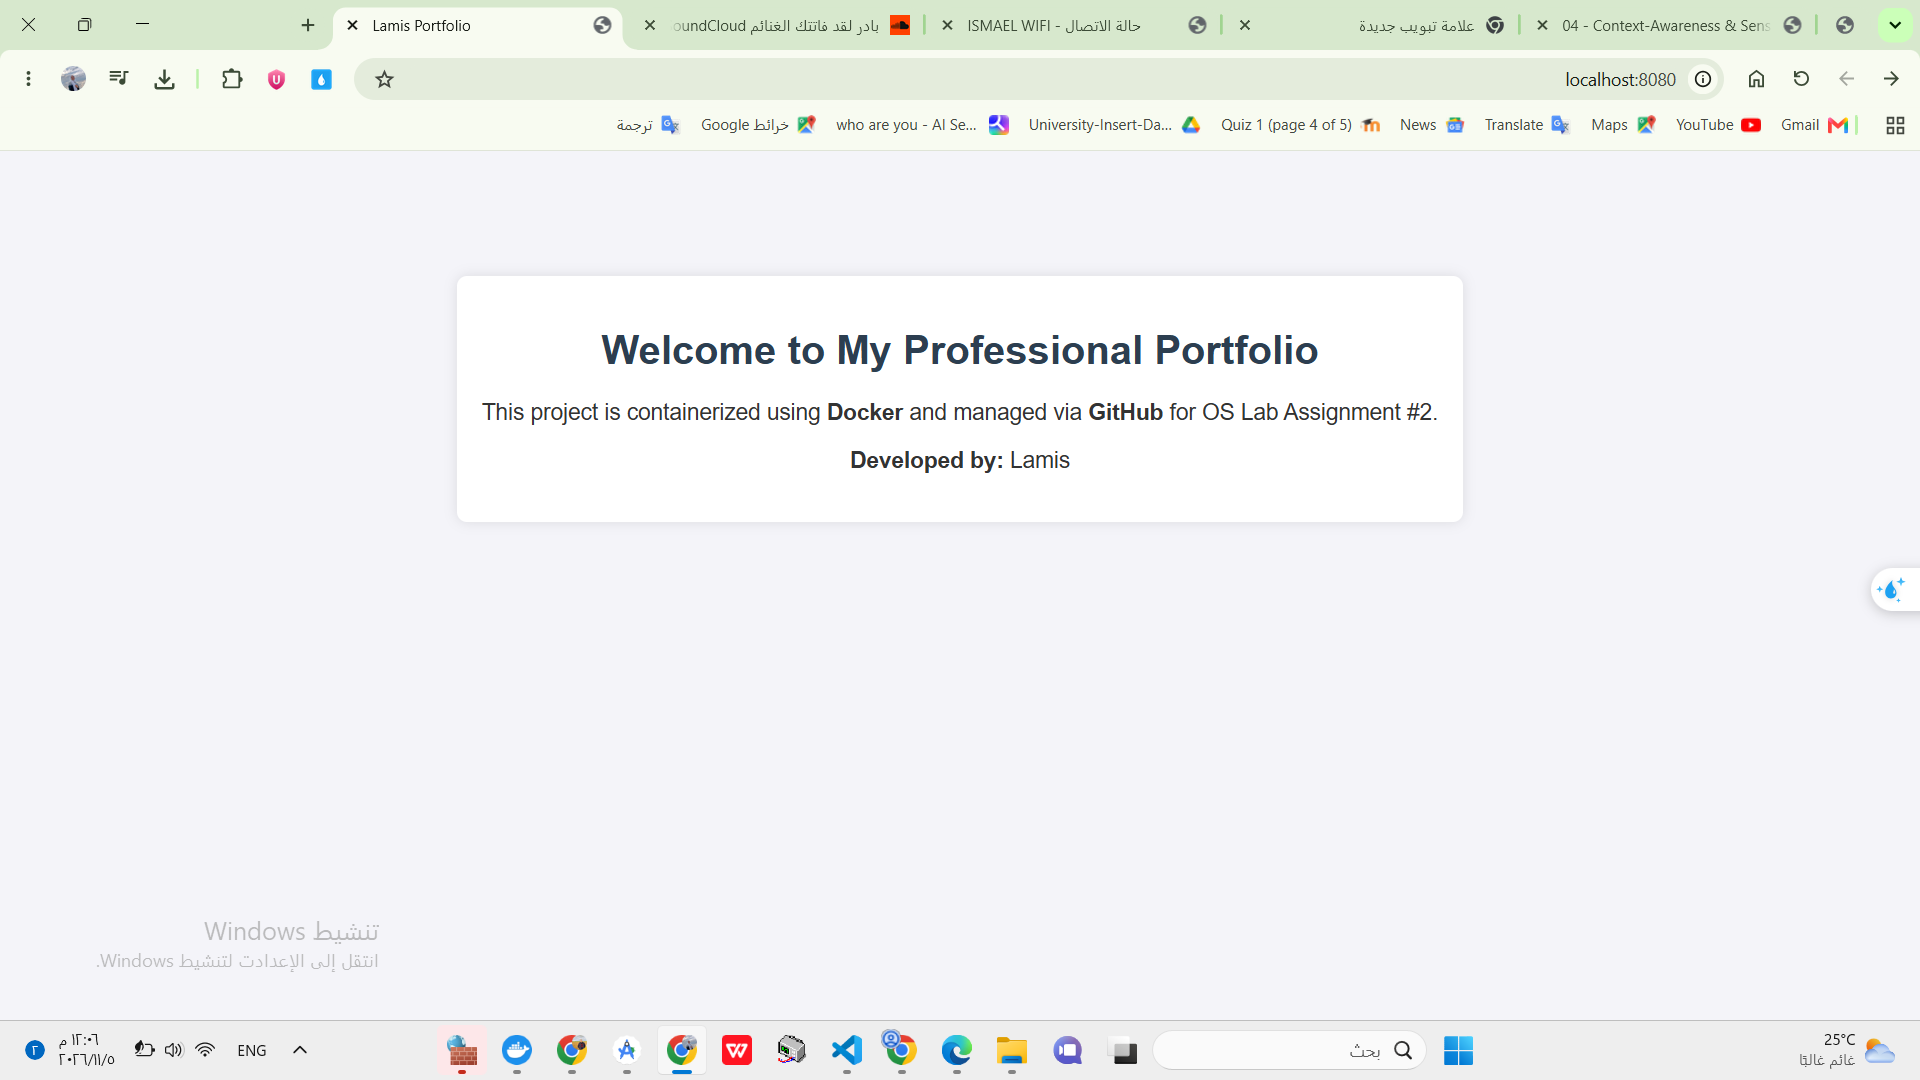
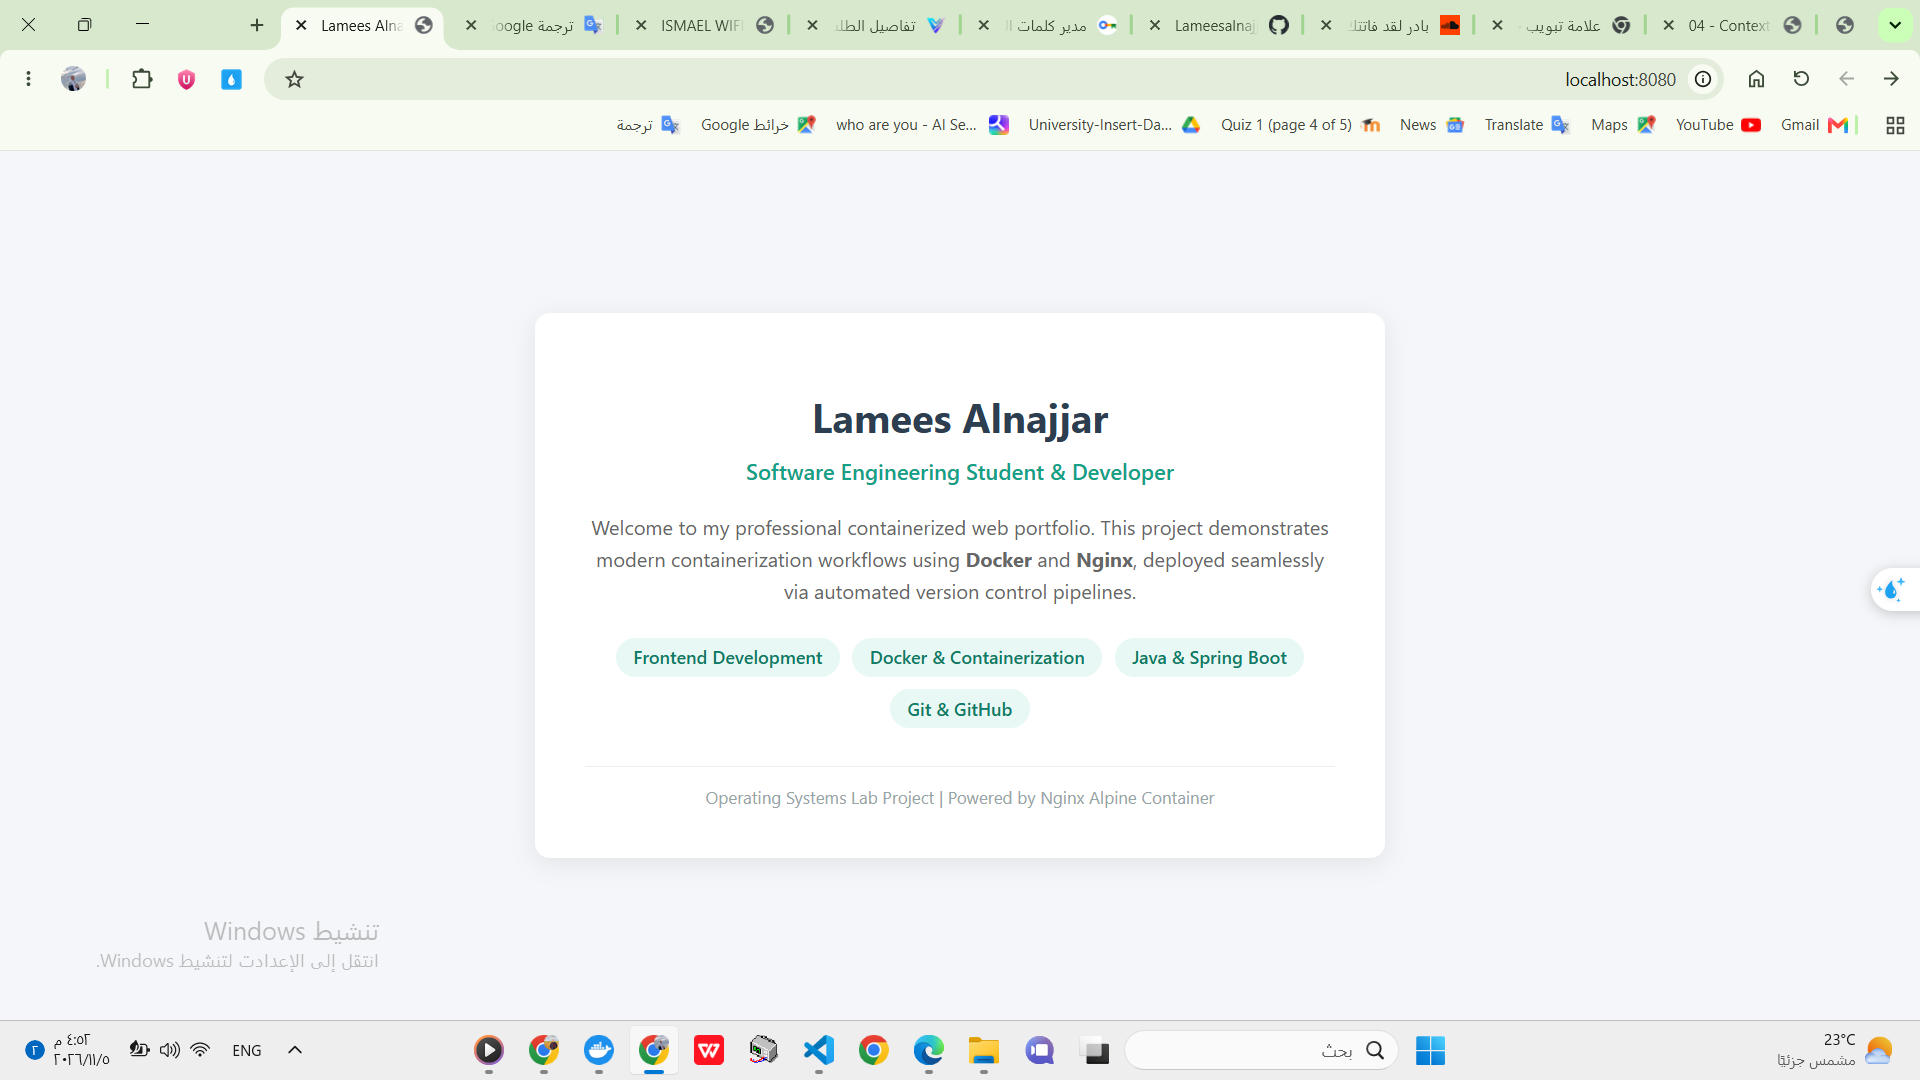
feat: update portfolio design to professional developer profile

diff --git a/src/index.html b/src/index.html
@@ -3,19 +3,87 @@
 <head>
     <meta charset="UTF-8">
     <meta name="viewport" content="width=device-width, initial-scale=1.0">
-    <title>Lameegits Portfolio</title>
+    <title>Lamees Alnajjar - Software Engineering Portfolio</title>
     <style>
-        body { font-family: Arial, sans-serif; text-align: center; margin-top: 100px; background-color: #f4f4f9; color: #333; }
-        h1 { color: #2c3e50; }
-        p { font-size: 18px; }
-        .box { background: white; padding: 20px; display: inline-block; border-radius: 8px; box-shadow: 0px 0px 10px rgba(0,0,0,0.1); }
+        body {
+            font-family: 'Segoe UI', Tahoma, Geneva, Verdana, sans-serif;
+            background-color: #f4f6f9;
+            color: #333;
+            margin: 0;
+            padding: 0;
+            display: flex;
+            justify-content: center;
+            align-items: center;
+            min-height: 100vh;
+        }
+        .card {
+            background: #ffffff;
+            padding: 40px;
+            border-radius: 12px;
+            box-shadow: 0 4px 20px rgba(0, 0, 0, 0.08);
+            max-width: 600px;
+            width: 100%;
+            text-align: center;
+        }
+        h1 {
+            color: #2c3e50;
+            margin-bottom: 10px;
+        }
+        .tagline {
+            color: #16a085;
+            font-weight: 600;
+            margin-bottom: 20px;
+            font-size: 1.1rem;
+        }
+        p {
+            line-height: 1.6;
+            color: #666;
+            margin-bottom: 25px;
+        }
+        .skills {
+            display: flex;
+            justify-content: center;
+            gap: 10px;
+            flex-wrap: wrap;
+            margin-bottom: 30px;
+        }
+        .skill-badge {
+            background: #e8f8f5;
+            color: #117a65;
+            padding: 6px 14px;
+            border-radius: 20px;
+            font-size: 0.9rem;
+            font-weight: 500;
+        }
+        .footer {
+            font-size: 0.85rem;
+            color: #95a5a6;
+            border-top: 1px solid #eee;
+            padding-top: 15px;
+        }
     </style>
 </head>
 <body>
-    <div class="box">
-        <h1>Welcome to My Professional Portfolio</h1>
-        <p>This project is containerized using <strong>Docker</strong> and managed via <strong>GitHub</strong> for OS Lab Assignment #2.</p>
-        <p><strong>Developed by:</strong> Lamis</p>
+
+    <div class="card">
+        <h1>Lamees Alnajjar</h1>
+        <div class="tagline">Software Engineering Student & Developer</div>
+        
+        <p>
+            Welcome to my professional containerized web portfolio. This project demonstrates modern containerization workflows using <strong>Docker</strong> and <strong>Nginx</strong>, deployed seamlessly via automated version control pipelines.
+        </p>
+
+        <div class="skills">
+            <span class="skill-badge">Frontend Development</span>
+            <span class="skill-badge">Docker & Containerization</span>
+            <span class="skill-badge">Java & Spring Boot</span>
+            <span class="skill-badge">Git & GitHub</span>
+        </div>
+
+        <div class="footer">
+            Operating Systems Lab Project | Powered by Nginx Alpine Container
+        </div>
     </div>
+
 </body>
 </html>
